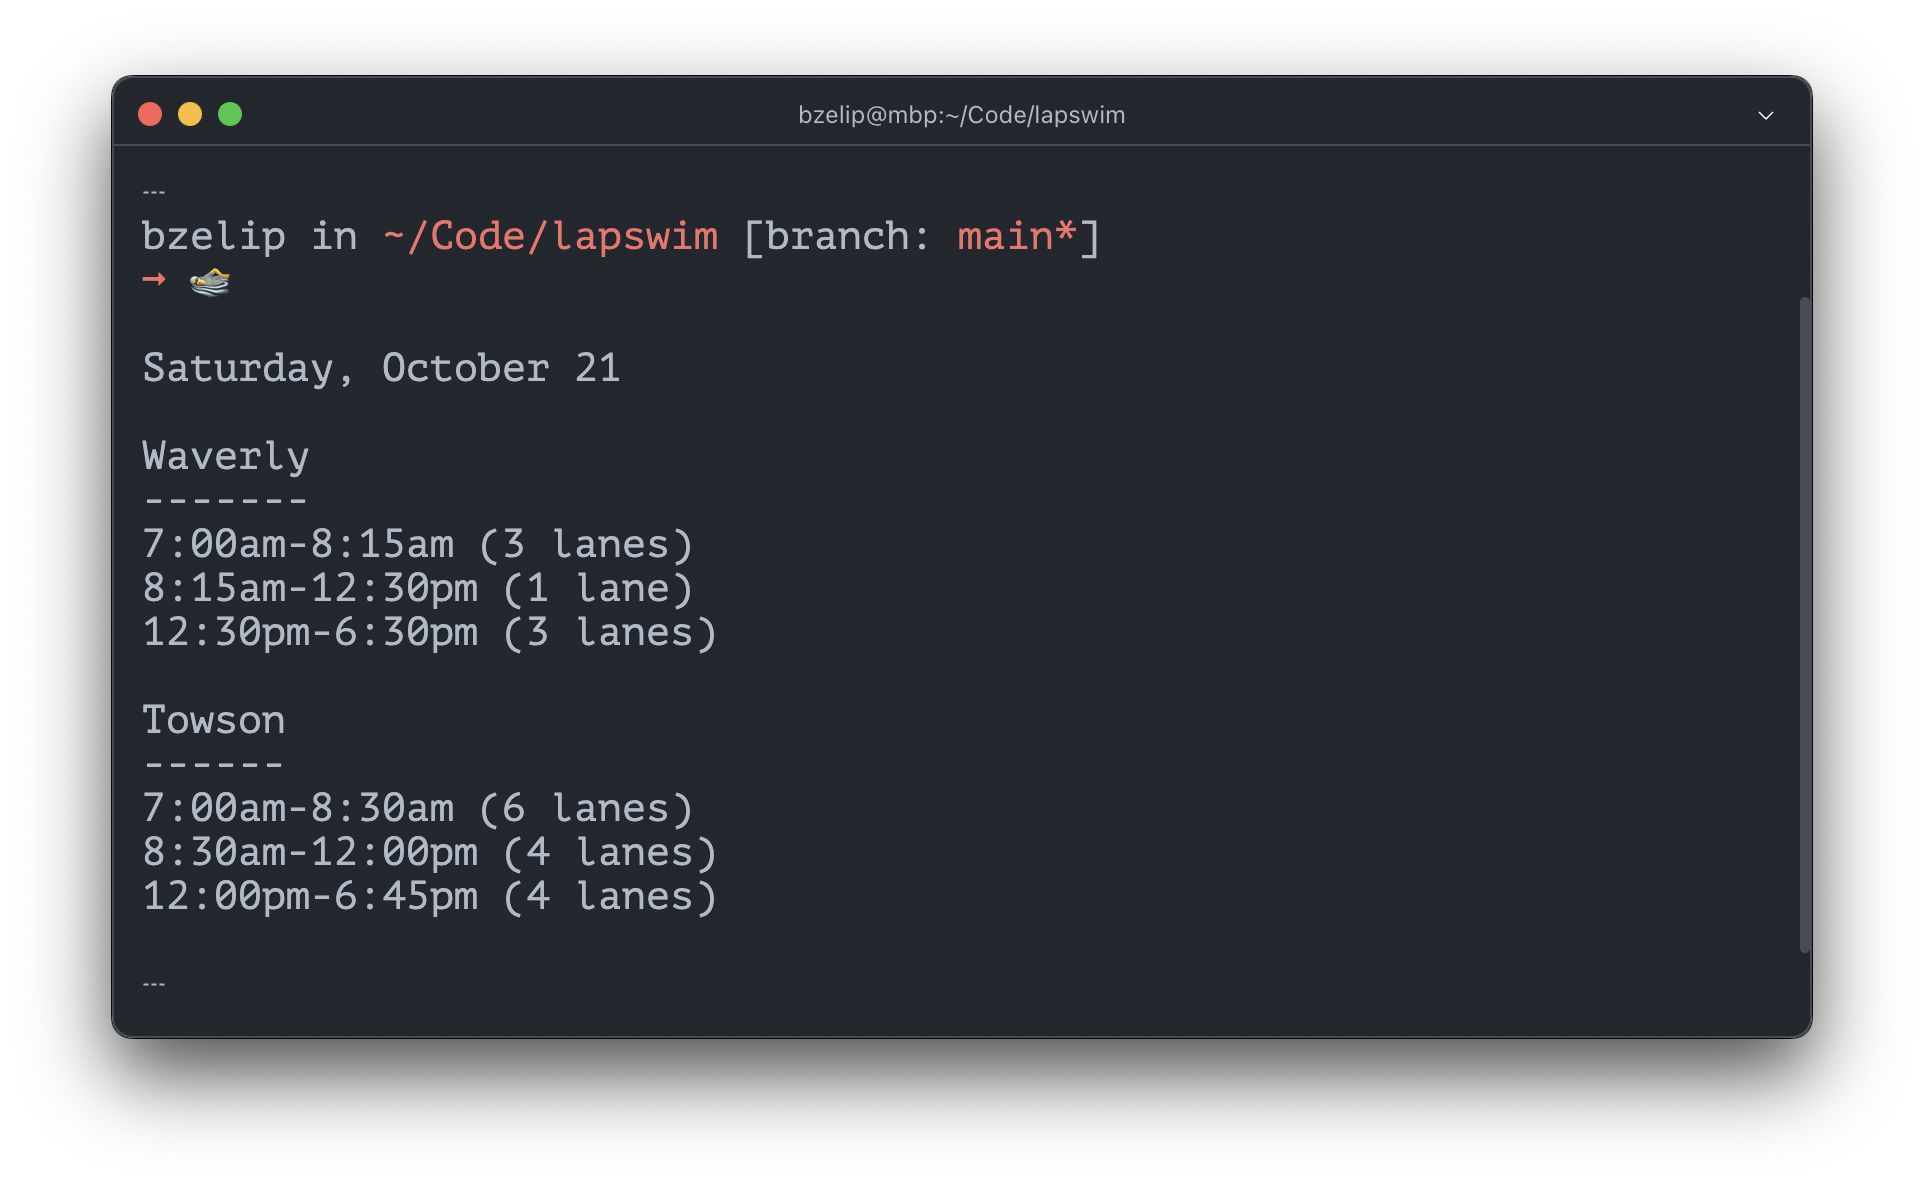
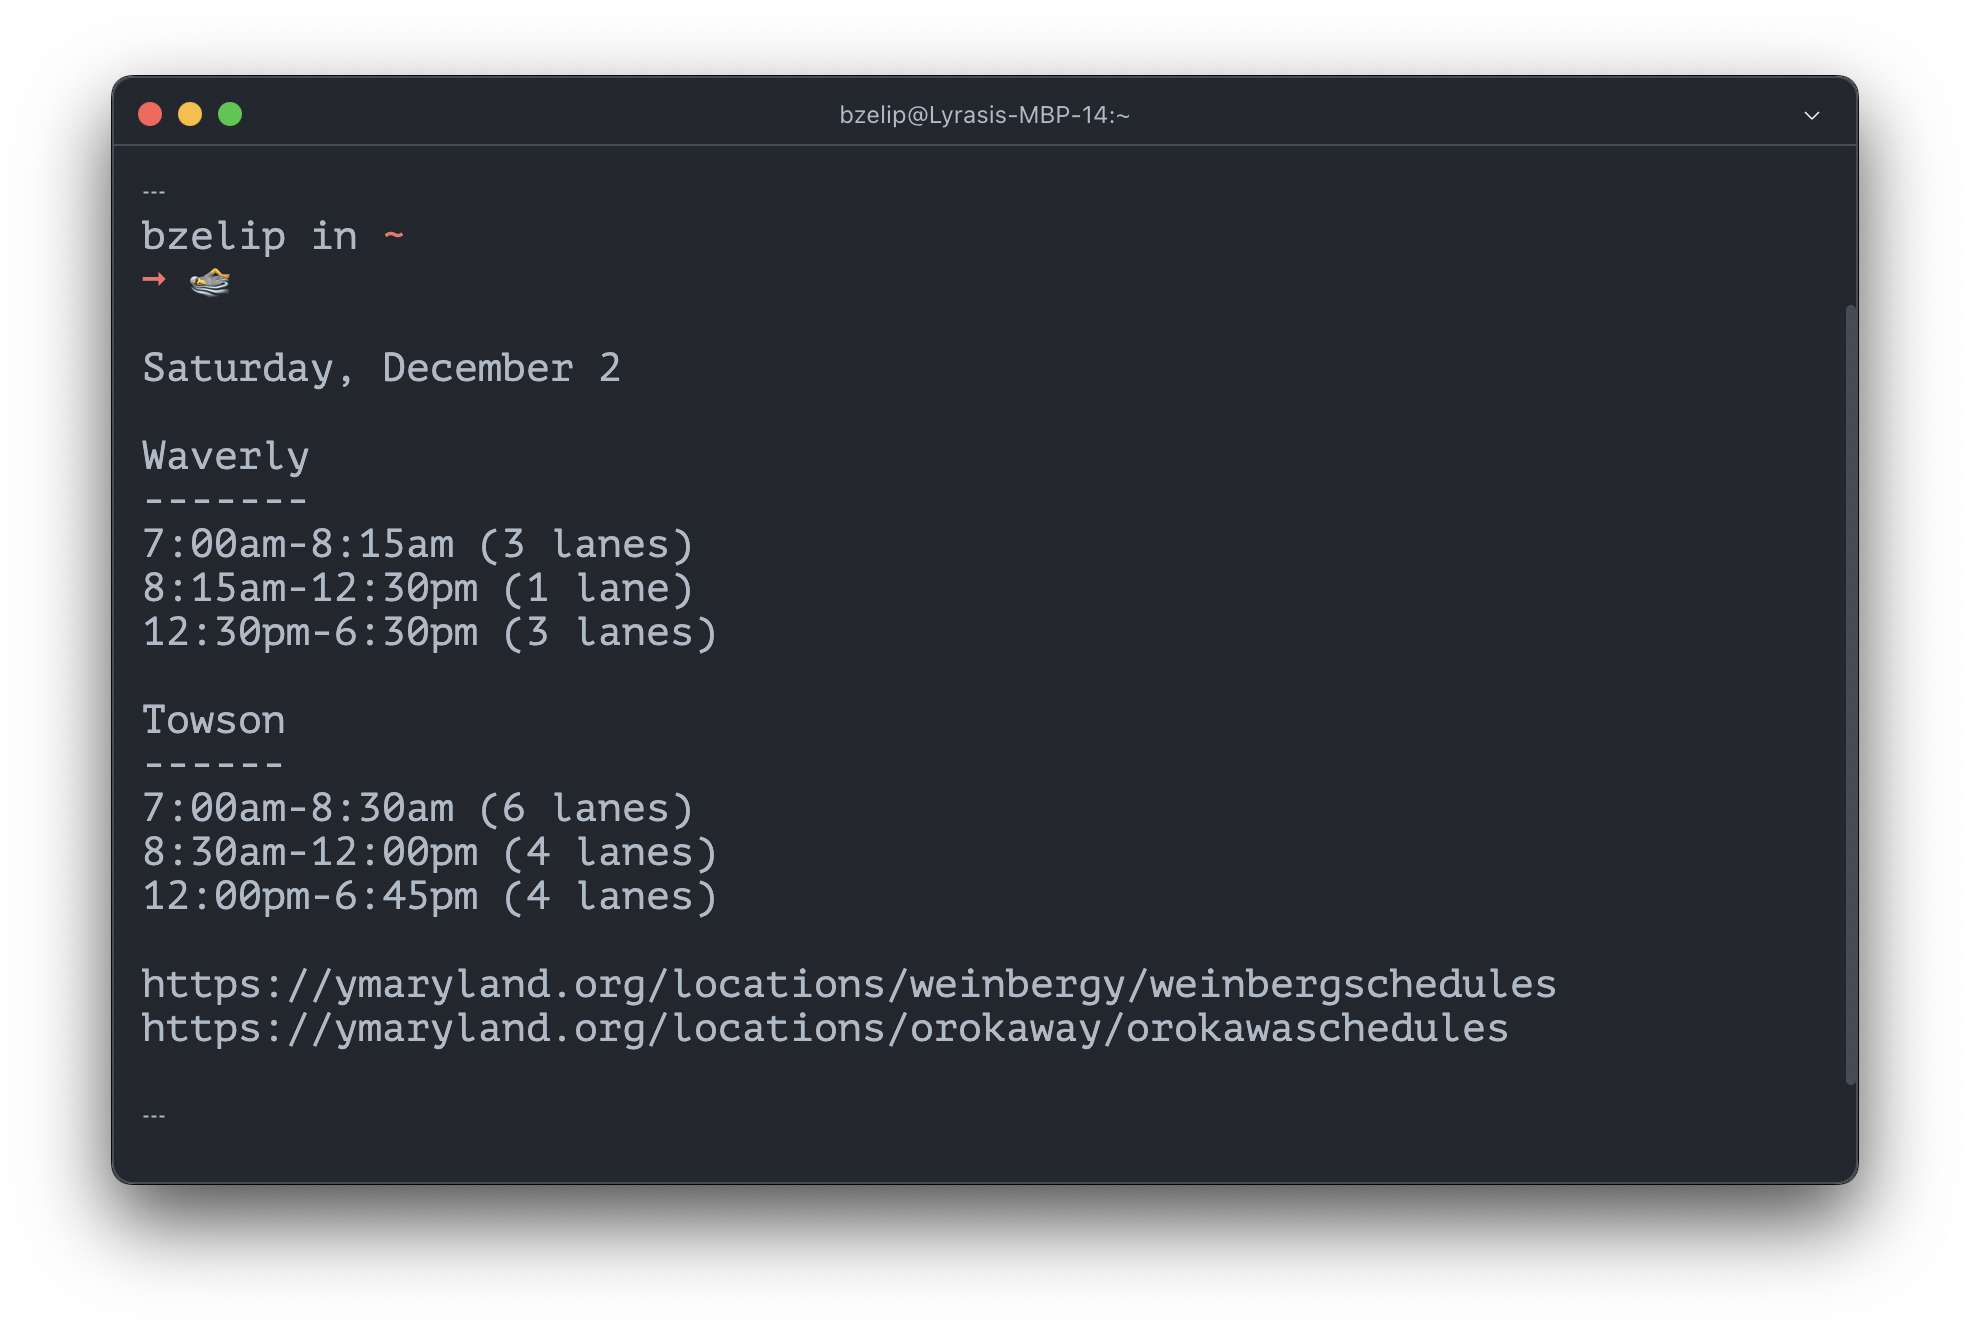
Autorun app via launchd on login and every 5mins
Add launchd shell script, npm script, and plist sample
Add editor support for TypeScript linting
Update README
Update screenshot
Clean up files
Bump to v0.4.0 for launchd support

diff --git a/README.md b/README.md
@@ -1,16 +1,69 @@
 # Lapswim
 
-Today's lap swim schedule\* in the macOS menu bar†.
+![GitHub package.json version](https://img.shields.io/github/package-json/v/brianzelip/lapswim?color=%2312b337)
+
+Today's lap swim schedule at Baltimore's Waverly and Towson Ys in the terminal.
 
 ![screenshot of lapswim cli](./cli-screenshot.png)
 
-\* At the Waverly and Towson Ys in Baltimore
+Schedules are scraped with [Playwright](https://playwright.dev/), logged to stdout, and cached in a local json file for the day. The app is ran automatically by launchd on login and every 5 minutes.
 
-† Currently cli only
+## Usage
+
+1. Clone this repo
+2. Install dependencies
+
+```sh
+npm i
+```
+
+3. Copy the sample plist file to your user agent directory and rename it
+
+```sh
+cp ./src/local.lapswim.plist.sample ~/Library/LaunchAgents/local.lapswim.plist
+```
+
+4. Edit the `Program` and `StandardErrorPath` key values in ~/Library/LaunchAgents/local.lapswim.plist so the paths correspond to your machine
+5. Load the plist file with launchd
+
+```sh
+launchctl load ~/Library/LaunchAgents/local.lapswim.plist
+```
+
+6. Set an alias in your terminal config file
+
+```sh
+# .zshrc, .bashrc, etc
+alias swim='node ~/Code/lapswim/src/lapswim.mjs'
+```
+
+7. Open a new terminal and run the `swim` alias to get today's lap swim times!
+
+```sh
+swim
+
+> Saturday, December 2
+>
+> Waverly
+> -------
+> 7:00am-8:15am (3 lanes)
+> 8:15am-12:30pm (1 lane)
+> 12:30pm-6:30pm (3 lanes)
+>
+> Towson
+> ------
+> 7:00am-8:30am (6 lanes)
+> 8:30am-12:00pm (4 lanes)
+> 12:00pm-6:45pm (4 lanes)
+>
+> https://ymaryland.org/locations/weinbergy/weinbergschedules
+> https://ymaryland.org/locations/orokaway/orokawaschedules
+```
 
 ## Resources
 
 - [`launchd` tutorial](https://launchd.info/)
+- [launchd.plist man page](https://keith.github.io/xcode-man-pages/launchd.plist.5.html)
 - https://8thlight.com/insights/tutorial-add-a-menu-bar-extra-to-a-macos-app
 - [Tauri menubar app template](https://github.com/4gray/tauri-menubar-app) - Vite and Vue, app shows in dock and `alt + tab`
   - https://betterprogramming.pub/create-menubar-app-with-tauri-510ab7f7c43d
@@ -24,25 +77,6 @@ Today's lap swim schedule\* in the macOS menu bar†.
 - [SwiftUI](https://developer.apple.com/documentation/swiftui)
 - [AppKit](https://developer.apple.com/documentation/appkit)
 - [Electron Tray tutorial](https://www.electronjs.org/docs/latest/tutorial/tray)
-
-## Code provenance
-
-```sh
-# init cli choices:
-# - JS/!TS
-# - tests/ dir
-# - do not auto install 3 browsers
-npm init playwright@latest
-
-# Install only Firefox
-npx playwright install firefox
-
-# Run tests headless
-npx playwright test
-
-# Run tests in UI mode
-npx playwright test --ui
-```
 
 ## Contributing
 
